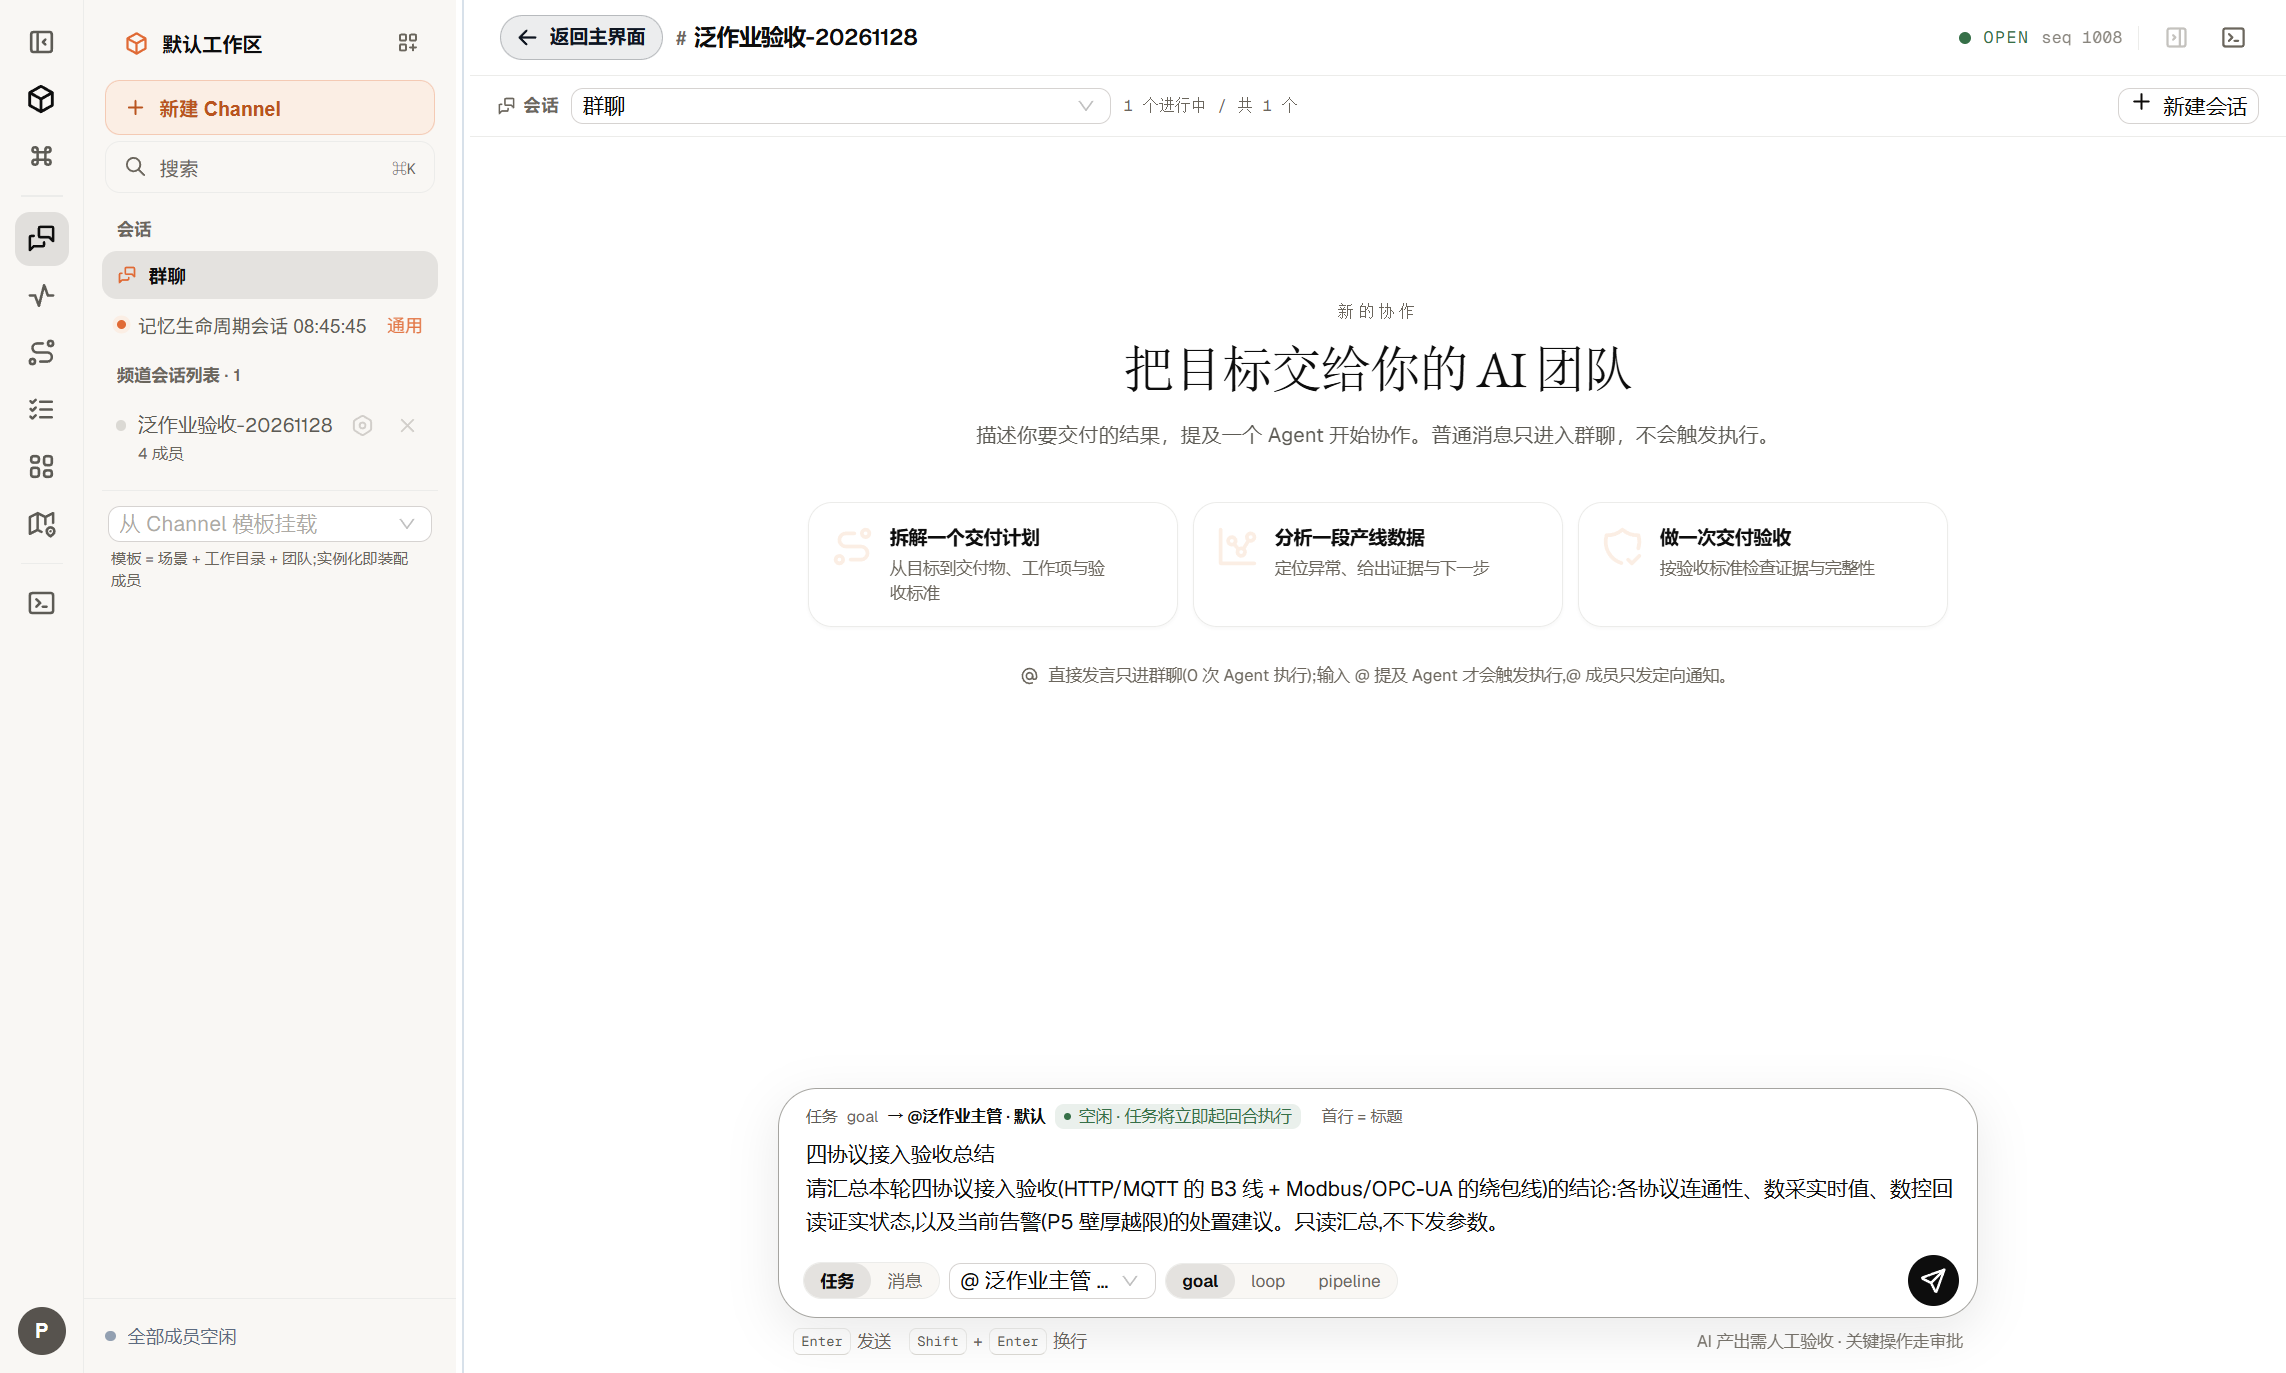
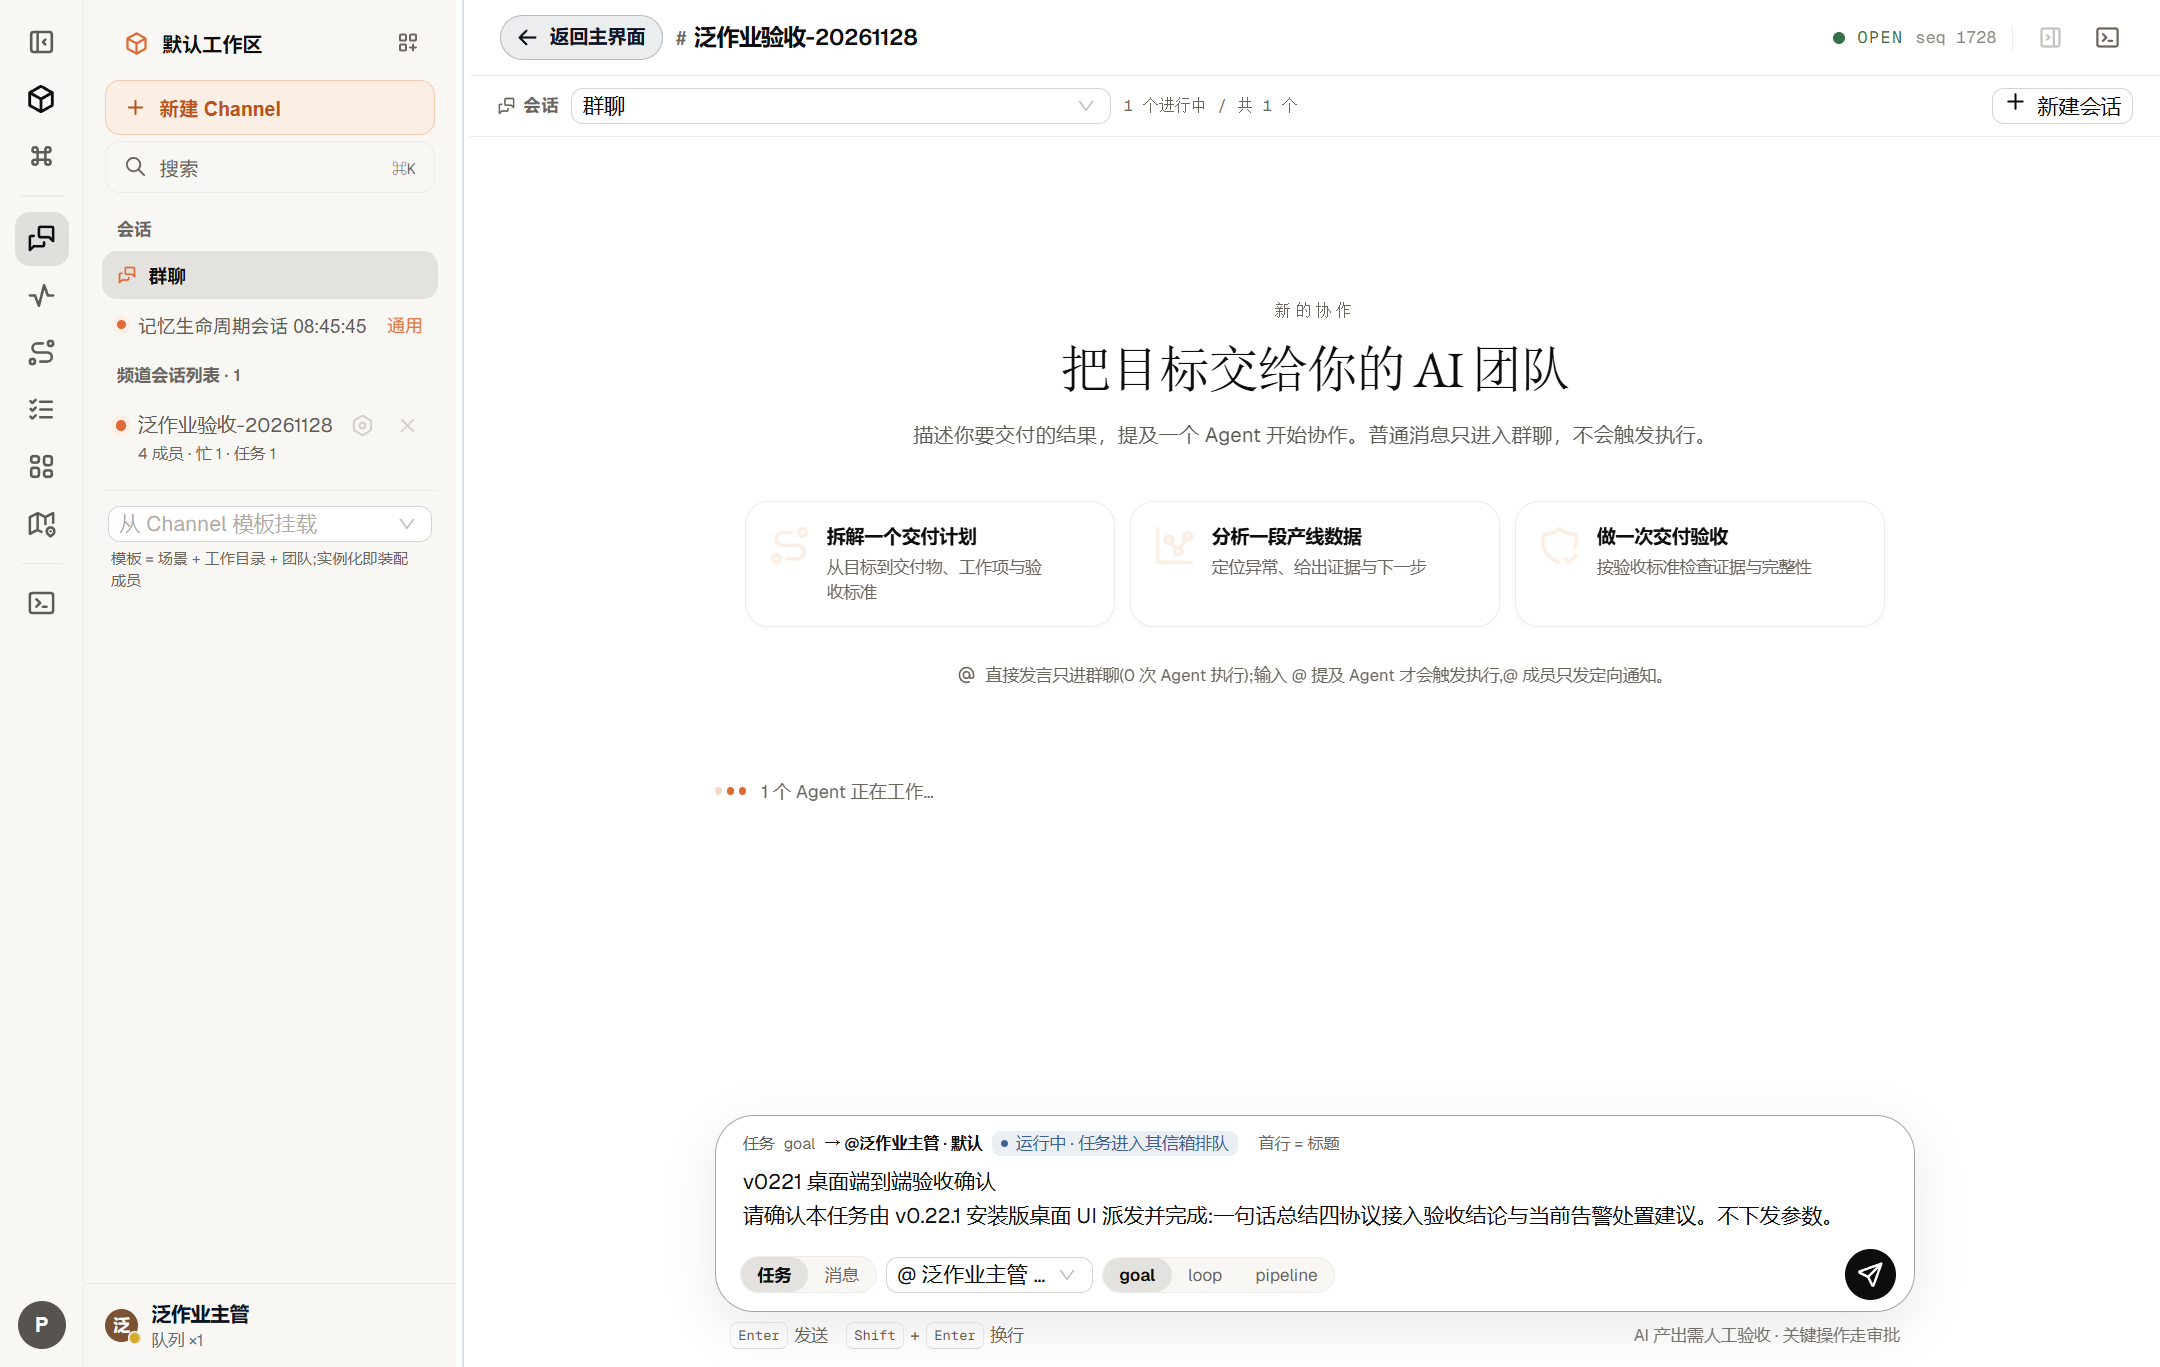
docs(acceptance): v0.22.1 release and installed-desktop e2e evidence

diff --git a/docs/audit/evidence/2026-11-28-phase2-full-scenario/release-notes-0221.md b/docs/audit/evidence/2026-11-28-phase2-full-scenario/release-notes-0221.md
@@ -1,0 +1,24 @@
+# AgentWorkShop v0.22.1
+
+桌面版本显示修复 + 记忆/检索模型验收轮加固 + 四协议接入验收验证。
+
+## 修复
+
+- **桌面版本显示**(本版主要修复):源码直启(`electron desktop/main.mjs`)时托盘/更新面显示的是 Electron 运行时版本(如 45.4.1)而非应用版本——`app.getVersion()` 在该模式下回退到运行时自身版本,旧护栏 `!== '0.0.0'` 拦不住。现在源码模式直接读取后端 package.json;打包版行为不变。
+
+## 加固(验收轮实测通过)
+
+- 本地检索模型(embedding)下载:流式进度、失败/取消回滚清理、已装模型拒重下(409)、取消端点按实际终态回报;
+- 记忆团队检索:`buildMatchQuery` 统一 FTS 转义(修复跨频道团队检索报错)、向量榜按距离排名(`TEAM_VEC_K`)、触摸只计入选行;
+- owner 共享区:`searchSharedExperience` 补 `memory_access_mode` 阀门(disabled/isolated/readonly);
+- 记忆写入/更新:动态解析 embedding provider;vecInit 维度自愈;
+- 接入脚本:`onboard.mjs` verify 配置透传 `ackMode`/`observeDaqId`(mqtt command-only 节点走 transport-ack + 独立 DAQ 观测判定);`verify-line.mjs` 支持 `protectedLineId` 基线夹具(缺省仍为受保护演示线)。
+
+## 验收(2026-11-28)
+
+四协议接入矩阵(HTTP / MQTT / Modbus-TCP / OPC-UA)全链:文档→孪生→供给→锻造→V1-V6→HITL 治理闭环(两次冒烟批次设备证实);同 Channel 差异化绑定权限矩阵(分析师只读/工艺专家读+recipe/零绑定 fail-closed);Runtime 元数据 CAS 热重载(下一回合行为改变);记忆中心 45s 即时整理 + 向量检索;桌面端实机(源码壳)派发任务 COMPLETED;受保护基线 V6 PASS(16/0)。证据:`docs/audit/evidence/2026-11-28-phase2-full-scenario/`。
+
+## 安装
+
+- npm:`npm i -g agentworkshop@0.22.1`(官方源)
+- 桌面:本 Release 资产中的 Windows 安装包(静默安装 `/S`);应用内更新中心亦会提示。
